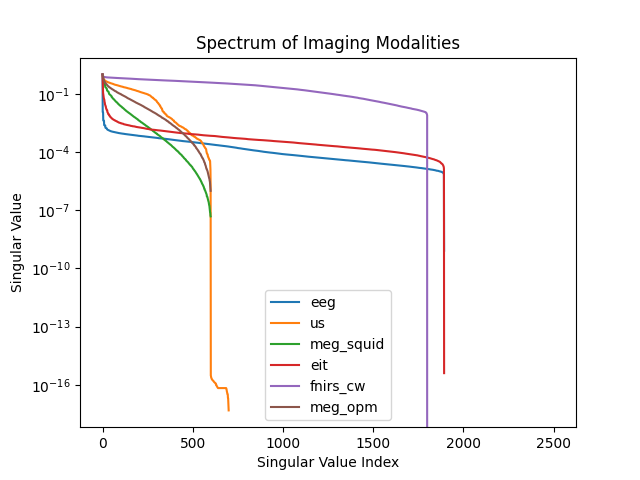
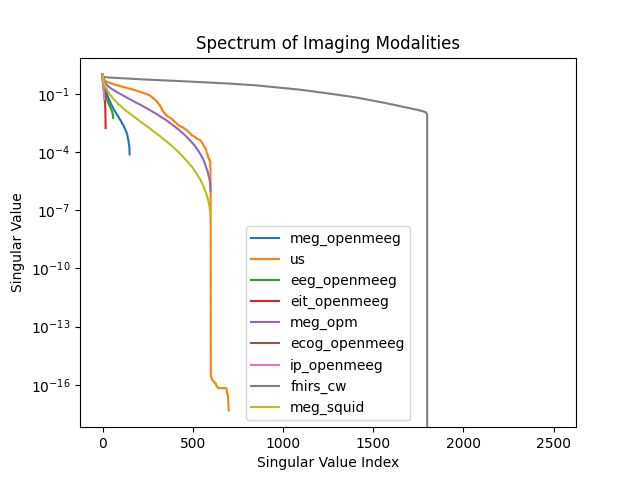
update openmeeg sims

diff --git a/guti/modalities/compute_openmeeg_svds.py b/guti/modalities/compute_openmeeg_svds.py
@@ -1,0 +1,87 @@
+"""
+Compute SVDs of the leadfields of the OpenMEEG sample data.
+"""
+# %% 
+# Import modules
+import numpy as np
+import h5py
+import matplotlib.pyplot as plt
+
+#%%
+# Load the data
+def load_mat73(file_path):
+    data = {}
+    with h5py.File(file_path, 'r') as f:
+        # Iterate through all variables in the .mat file
+        for key in f.keys():
+            # Get the variable data
+            var = f[key][()]
+            # If the variable is a reference to another dataset, follow the reference
+            if isinstance(var, h5py.Reference):
+                var = f[var][()]
+            # Store in dictionary
+            data[key] = var
+    return data
+
+G_meg = load_mat73('openmeeg_sample_data/leadfields/meg_leadfield.mat')['linop']
+G_eeg = load_mat73('openmeeg_sample_data/leadfields/eeg_leadfield.mat')['linop']
+G_eit = load_mat73('openmeeg_sample_data/leadfields/eit_leadfield.mat')['linop']
+G_ip = load_mat73('openmeeg_sample_data/leadfields/ip_leadfield.mat')['linop']
+G_ecog = load_mat73('openmeeg_sample_data/leadfields/ecog_leadfield.mat')['linop']
+
+# # print shape (source-detector pairs, voxels)
+# print(G_meg['G'].shape)
+# print(G_eeg['G'].shape)
+# print(G_eit['G'].shape)
+# print(G_ip['G'].shape)
+# print(G_ecog['G'].shape)
+
+#%%
+# Compute SVDs
+s_meg = np.linalg.svdvals(G_meg)
+s_eeg = np.linalg.svdvals(G_eeg)
+s_eit = np.linalg.svdvals(G_eit)
+s_ip = np.linalg.svdvals(G_ip)
+s_ecog = np.linalg.svdvals(G_ecog)
+
+# # normalize by the first singular value
+# s_meg = s_meg / s_meg[0]
+# s_eeg = s_eeg / s_eeg[0]
+# s_eit = s_eit / s_eit[0]
+# s_ip = s_ip / s_ip[0]
+# s_ecog = s_ecog / s_ecog[0]
+
+#%%
+# Plot SVDs
+plt.semilogy(s_meg, label='MEG')
+plt.semilogy(s_eeg, label='EEG')
+plt.semilogy(s_eit, label='EIT')
+plt.semilogy(s_ip, label='IP')
+plt.semilogy(s_ecog, label='ECoG')
+plt.xlabel('Singular value index')
+plt.ylabel('Singular value')
+plt.grid(True)
+plt.legend()
+plt.show()
+
+#%%
+# Save the SVDs
+import sys
+
+from guti.data_utils import save_svd
+
+save_svd(s_meg, 'meg_openmeeg')
+save_svd(s_eeg, 'eeg_openmeeg')
+save_svd(s_eit, 'eit_openmeeg')
+save_svd(s_ip, 'ip_openmeeg')
+save_svd(s_ecog, 'ecog_openmeeg')
+
+
+
+
+
+
+
+
+
+# %%
